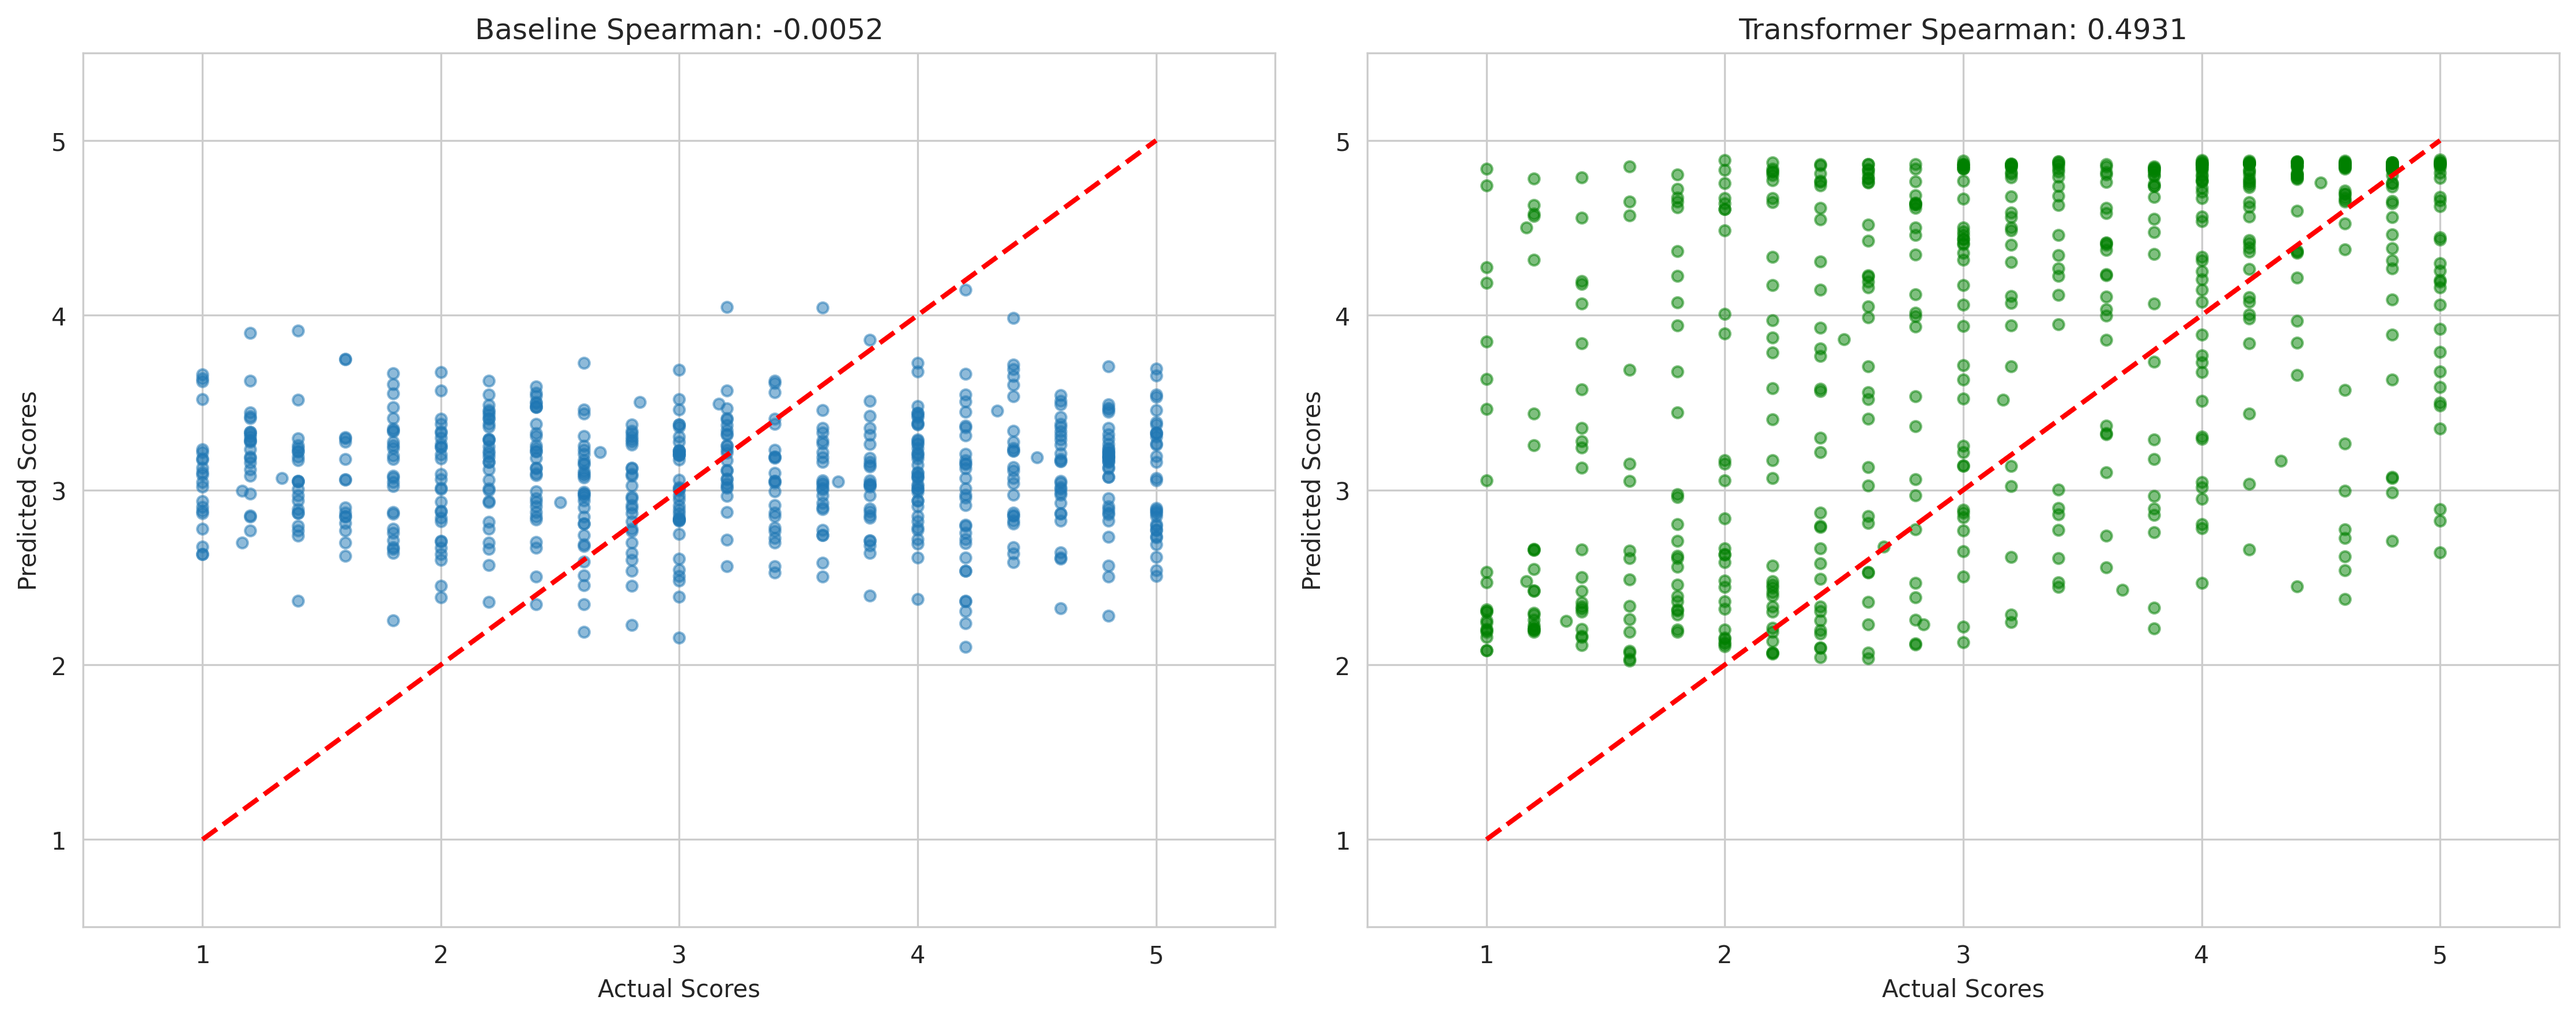
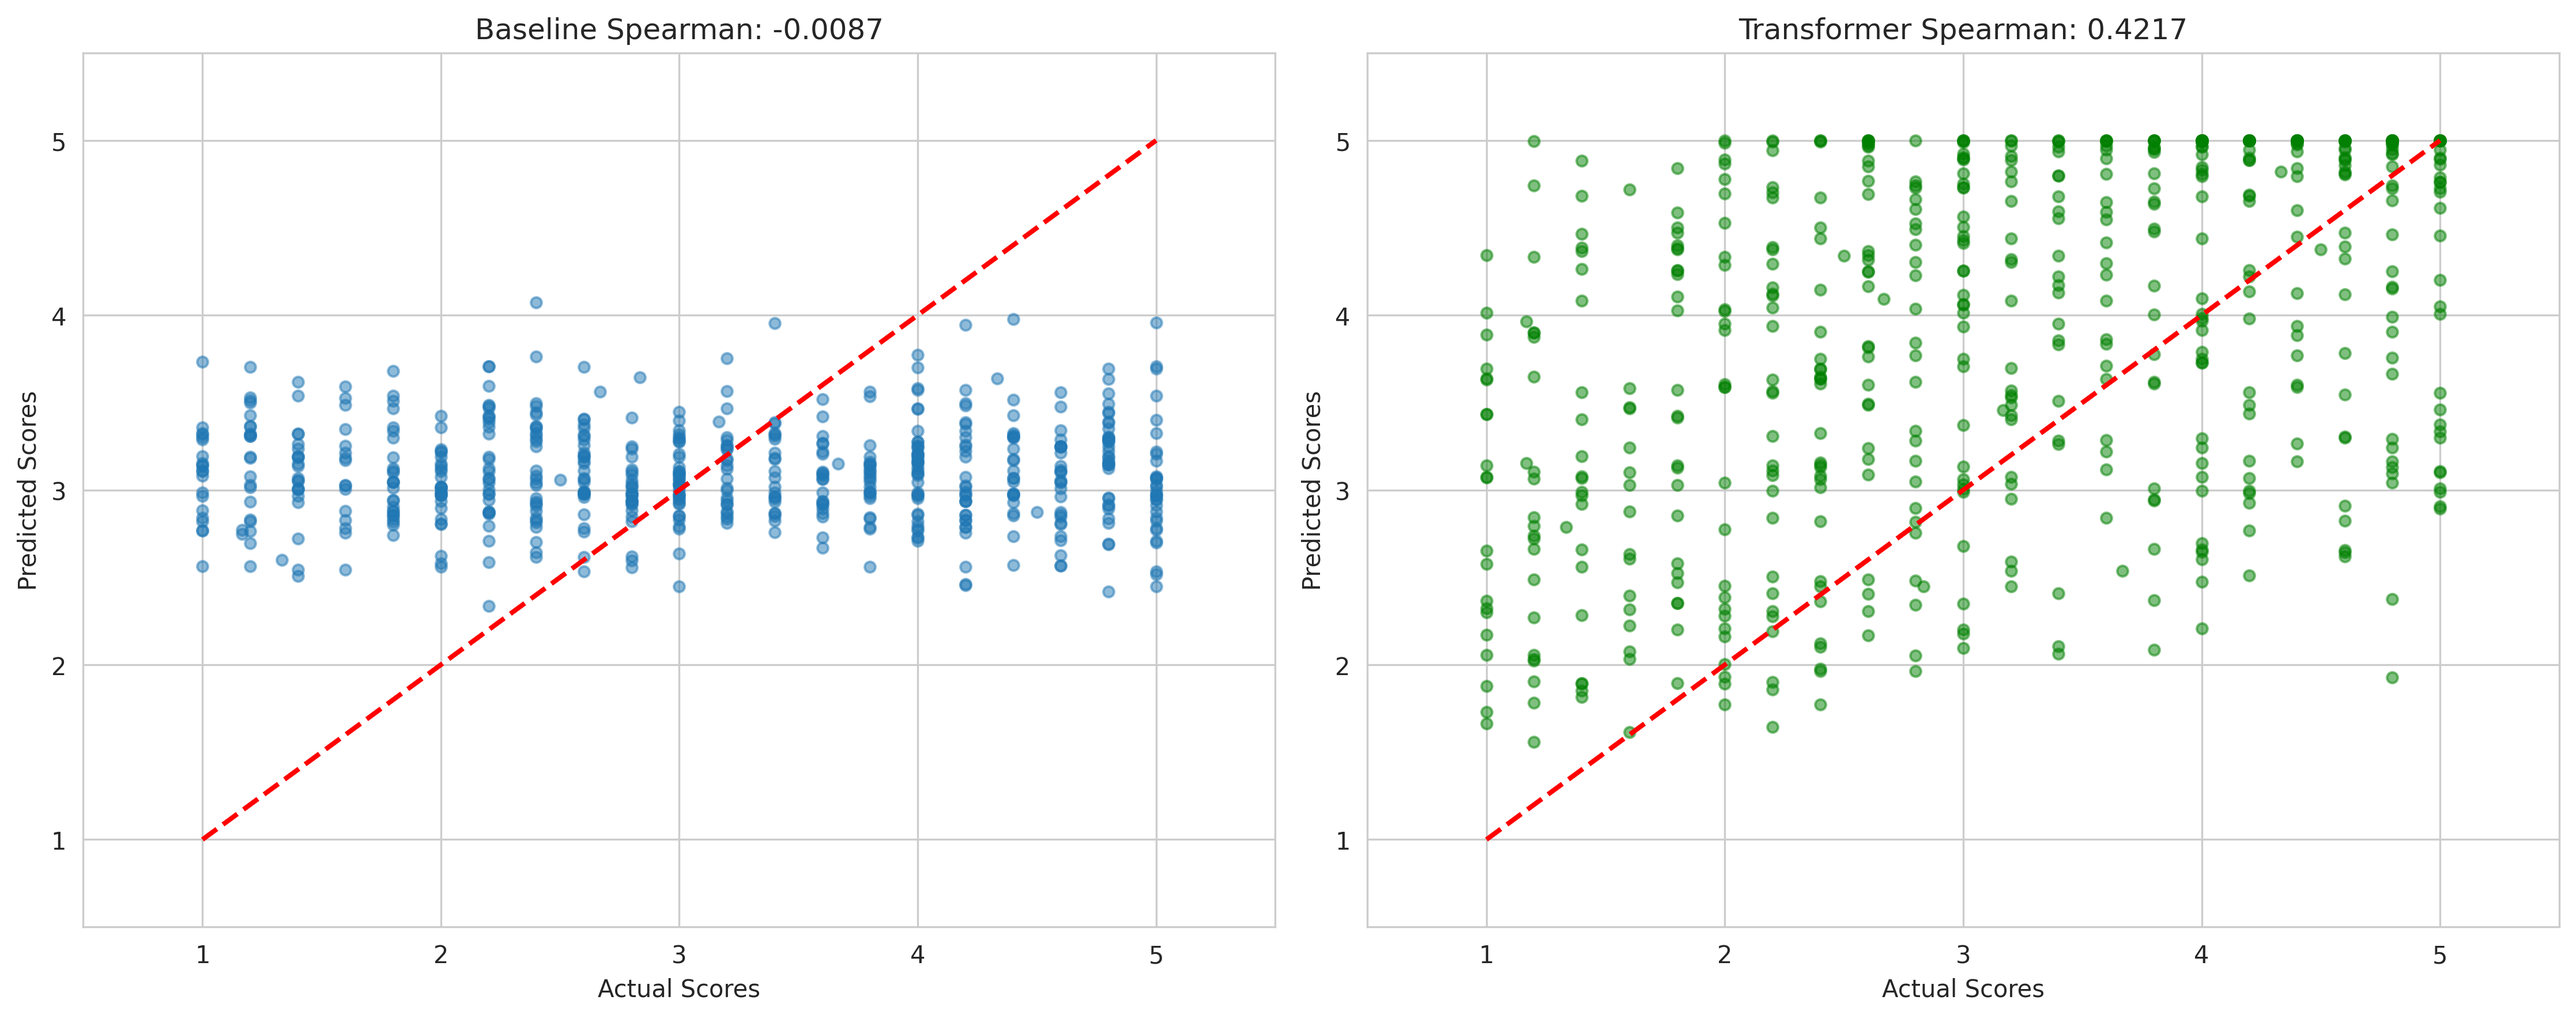
updated script with better fews integration

diff --git a/semeval_task5_main.py b/semeval_task5_main.py
@@ -129,10 +129,27 @@ def standardize_columns(df: pd.DataFrame) -> pd.DataFrame:
 
 
 def highlight_target(sentence: str, homonym: str) -> str:
+    """Highlight target word in sentence, handling case/inflection mismatches."""
     if not sentence or '[TGT]' in sentence or not homonym:
         return sentence
-    pattern = re.compile(rf"\\b{re.escape(homonym)}\\b", re.IGNORECASE)
-    return pattern.sub(lambda m: TARGET_TEMPLATE.format(token=m.group(0)), sentence, count=1)
+    
+    # Try exact word boundary match first (case-insensitive)
+    pattern = re.compile(rf"\b{re.escape(homonym)}\b", re.IGNORECASE)
+    
+    # Check if pattern matches before substituting
+    if pattern.search(sentence):
+        return pattern.sub(lambda m: TARGET_TEMPLATE.format(token=m.group(0)), sentence, count=1)
+    
+    # Fallback: try matching prefix (handles "running" when homonym is "run")
+    # Only match if homonym is substantial (>= 3 chars) to avoid false positives
+    if len(homonym) >= 3:
+        prefix_pattern = re.compile(rf"\b{re.escape(homonym)}\w*\b", re.IGNORECASE)
+        if prefix_pattern.search(sentence):
+            return prefix_pattern.sub(lambda m: TARGET_TEMPLATE.format(token=m.group(0)), sentence, count=1)
+    
+    # Last resort: if no match found, just return original sentence
+    # This prevents errors but means target won't be highlighted
+    return sentence
 
 
 def create_text_input(row: pd.Series, mark_homonym: bool) -> str:
@@ -198,38 +215,65 @@ def load_fews_dataframe(
         examples = rng.sample(examples, max_examples)
 
     rows = []
+    skipped_missing = 0
+    skipped_empty_gloss = 0
+    
     for idx, (raw_sentence, sense_id) in enumerate(tqdm(examples, desc="FEWS -> SemEval")):
         sense_meta = senses.get(sense_id)
         if not sense_meta:
+            skipped_missing += 1
             continue
-        sentence, target = _normalize_fews_sentence(raw_sentence)
-        homonym = sense_meta.get('word', '')
-        if not target:
-            sentence = highlight_target(sentence, homonym)
+        
+        # Extract bare lemma from sense_id (e.g., "potential.noun.0" -> "potential")
+        # This ensures homonym matches AmbiStory format (no suffix)
+        lemma = sense_id.split('.')[0] if '.' in sense_id else sense_id
+        
+        # Validate gloss exists and is non-empty
+        gloss = sense_meta.get('gloss', '').strip()
+        if not gloss:
+            skipped_empty_gloss += 1
+            continue
+        
+        sentence, target_token = _normalize_fews_sentence(raw_sentence)
+        
+        # If no explicit target found, use lemma for highlighting
+        # Handle case/inflection: try exact match first, then case-insensitive
+        if not target_token:
+            sentence = highlight_target(sentence, lemma)
+        
         rows.append(
             _build_fews_row(
                 base_id=f"fews-{idx}",
-                homonym=homonym,
+                lemma=lemma,  # Use bare lemma (no .pos.sense suffix)
                 sentence=sentence,
                 sense_meta=sense_meta,
-                sense_id=sense_id,
+                sense_id=sense_id,  # Keep full sense_id for internal use only
                 positive=True,
                 rng=rng,
                 weight_multiplier=weight_multiplier,
             )
         )
-        lemma_senses = [sid for sid in lemma_to_senses.get(homonym, []) if sid != sense_id]
+        
+        # Generate negative examples with OTHER senses of same lemma
+        lemma_senses = [sid for sid in lemma_to_senses.get(lemma, []) if sid != sense_id]
         if not lemma_senses:
             continue
+        
         for neg in range(negatives):
             neg_id = rng.choice(lemma_senses)
             neg_meta = senses.get(neg_id)
             if not neg_meta:
                 continue
+            
+            # Validate negative gloss exists
+            neg_gloss = neg_meta.get('gloss', '').strip()
+            if not neg_gloss:
+                continue
+            
             rows.append(
                 _build_fews_row(
                     base_id=f"fews-{idx}-neg{neg}",
-                    homonym=homonym,
+                    lemma=lemma,  # Same lemma, different sense
                     sentence=sentence,
                     sense_meta=neg_meta,
                     sense_id=neg_id,
@@ -238,6 +282,27 @@ def load_fews_dataframe(
                     weight_multiplier=weight_multiplier,
                 )
             )
+    
+    # Report statistics
+    print(f"\n   FEWS Processing Stats:")
+    print(f"     ✓ Successfully processed: {len(rows)} samples")
+    print(f"     ⚠ Skipped (missing sense_id): {skipped_missing}")
+    print(f"     ⚠ Skipped (empty gloss): {skipped_empty_gloss}")
+    
+    # Validation: print sample conversions for debugging
+    if len(rows) > 0:
+        print(f"\n   Sample FEWS -> AmbiStory conversions:")
+        for i in range(min(3, len(rows))):
+            sample = rows[i]
+            print(f"\n   Example {i+1}:")
+            print(f"     Homonym (bare lemma): '{sample['homonym']}'")
+            print(f"     Sense ID (internal): '{sample['sense_id']}'")
+            print(f"     Gloss: '{sample['judged_meaning'][:80]}...'")
+            print(f"     Sentence: '{sample['sentence'][:100]}...'")
+            # Verify no sense_id suffix in homonym
+            if '.' in sample['homonym']:
+                print(f"     ❌ WARNING: Homonym contains suffix!")
+    
     return pd.DataFrame(rows)
 
 
@@ -294,10 +359,10 @@ def _normalize_fews_sentence(raw_sentence: str) -> Tuple[str, Optional[str]]:
 
 def _build_fews_row(
     base_id: str,
-    homonym: str,
+    lemma: str,  # Changed from 'homonym' to 'lemma' for clarity
     sentence: str,
     sense_meta: Dict[str, str],
-    sense_id: str,
+    sense_id: str,  # Full sense_id ONLY for internal tracking - NOT exposed to model
     positive: bool,
     rng: random.Random,
     weight_multiplier: float,
@@ -316,26 +381,36 @@ def _build_fews_row(
         votes.append(int(round(score)))
     average = float(statistics.mean(votes))
     stdev = float(statistics.pstdev(votes)) if len(votes) > 1 else 0.6  # Higher variance
-    synonyms = sense_meta.get('synonyms', '')
-    tags = sense_meta.get('tags', '')
-    gloss = sense_meta.get('gloss', '')
+    
+    # Extract metadata - ensure gloss exists
+    synonyms = sense_meta.get('synonyms', '').strip()
+    tags = sense_meta.get('tags', '').strip()
+    gloss = sense_meta.get('gloss', '').strip()
+    
+    # CRITICAL: Ensure gloss is never empty (would harm model)
+    if not gloss:
+        gloss = f"A sense of {lemma}"  # Fallback
+    
+    # Build AmbiStory-compatible row
+    # IMPORTANT: Use ONLY the bare lemma (no .pos.sense suffix) for homonym field
+    # sense_id is stored but NEVER exposed in the text fields seen by the model
     return {
         'id': base_id,
         'sample_id': base_id,
-        'homonym': homonym,
-        'judged_meaning': gloss,
-        'precontext': '',
-        'sentence': sentence,
-        'ending': '',
+        'homonym': lemma,  # ✓ BARE LEMMA ONLY (e.g., "potential" not "potential.noun.0")
+        'judged_meaning': gloss,  # ✓ Validated non-empty gloss
+        'precontext': '',  # FEWS has no story context
+        'sentence': sentence,  # Already has [TGT] markers
+        'ending': '',  # FEWS has no ending
         'choices': votes,
         'average': average,
         'stdev': stdev,
         'nonsensical': [False] * len(votes),
-        'example_sentence': synonyms,
-        'sense_tags': tags,
-        'sense_synonyms': synonyms,
+        'example_sentence': synonyms if synonyms else '',  # Use synonyms as example
+        'sense_tags': tags if tags else '',  # POS/usage tags
+        'sense_synonyms': synonyms if synonyms else '',
         'source': 'fews-positive' if positive else 'fews-negative',
-        'sense_id': sense_id,
+        'sense_id': sense_id,  # ⚠ INTERNAL ONLY - not used in create_text_input()
         'confidence_weight': compute_sample_weight(stdev, weight_multiplier),
     }
 
@@ -475,12 +550,13 @@ def check_data_distribution(df, label):
 
 
 def train_one_epoch(model, dataloader, optimizer, scheduler, device, grad_accum, use_amp):
-    """Training loop with Huber loss to prevent collapse to mean"""
+    """Training loop with Huber loss + variance penalty + label smoothing"""
     model.train()
     total_loss = 0.0
     # Huber loss: MSE for small errors, MAE for large errors
     # More robust than MSE, penalizes constant predictions more
     criterion = nn.HuberLoss(delta=1.0)
+    label_smoothing = 0.05  # Smooth targets by ±0.05 for regularization
     
     for step, batch in enumerate(tqdm(dataloader, desc="Training")):
         input_ids = batch['input_ids'].to(device)
@@ -489,6 +565,13 @@ def train_one_epoch(model, dataloader, optimizer, scheduler, device, grad_accum,
         
         # Forward pass
         preds = model(input_ids, attention_mask)
+        
+        # Apply label smoothing: add small noise to targets for regularization
+        if model.training and label_smoothing > 0:
+            noise = torch.randn_like(scores) * label_smoothing
+            scores_smoothed = torch.clamp(scores + noise, min=PRED_MIN, max=PRED_MAX)
+        else:
+            scores_smoothed = scores
         
         # Debug every 100 batches
         if step % 100 == 0:
@@ -499,13 +582,13 @@ def train_one_epoch(model, dataloader, optimizer, scheduler, device, grad_accum,
                   f"Mean: {scores.mean().item():.3f}")
         
         # Huber loss for main prediction error
-        loss = criterion(preds, scores)
+        loss = criterion(preds, scores_smoothed)
         
         # Add variance penalty: encourage diverse predictions
         # If all predictions are similar (low std), add penalty
         pred_std = preds.std()
         target_std = scores.std()
-        variance_penalty = torch.relu(target_std - pred_std) * 0.1  # 10% weight
+        variance_penalty = torch.relu(target_std - pred_std) * 0.2  # Increased from 0.1 to 0.2
         loss = loss + variance_penalty
         
         total_loss += loss.item()
